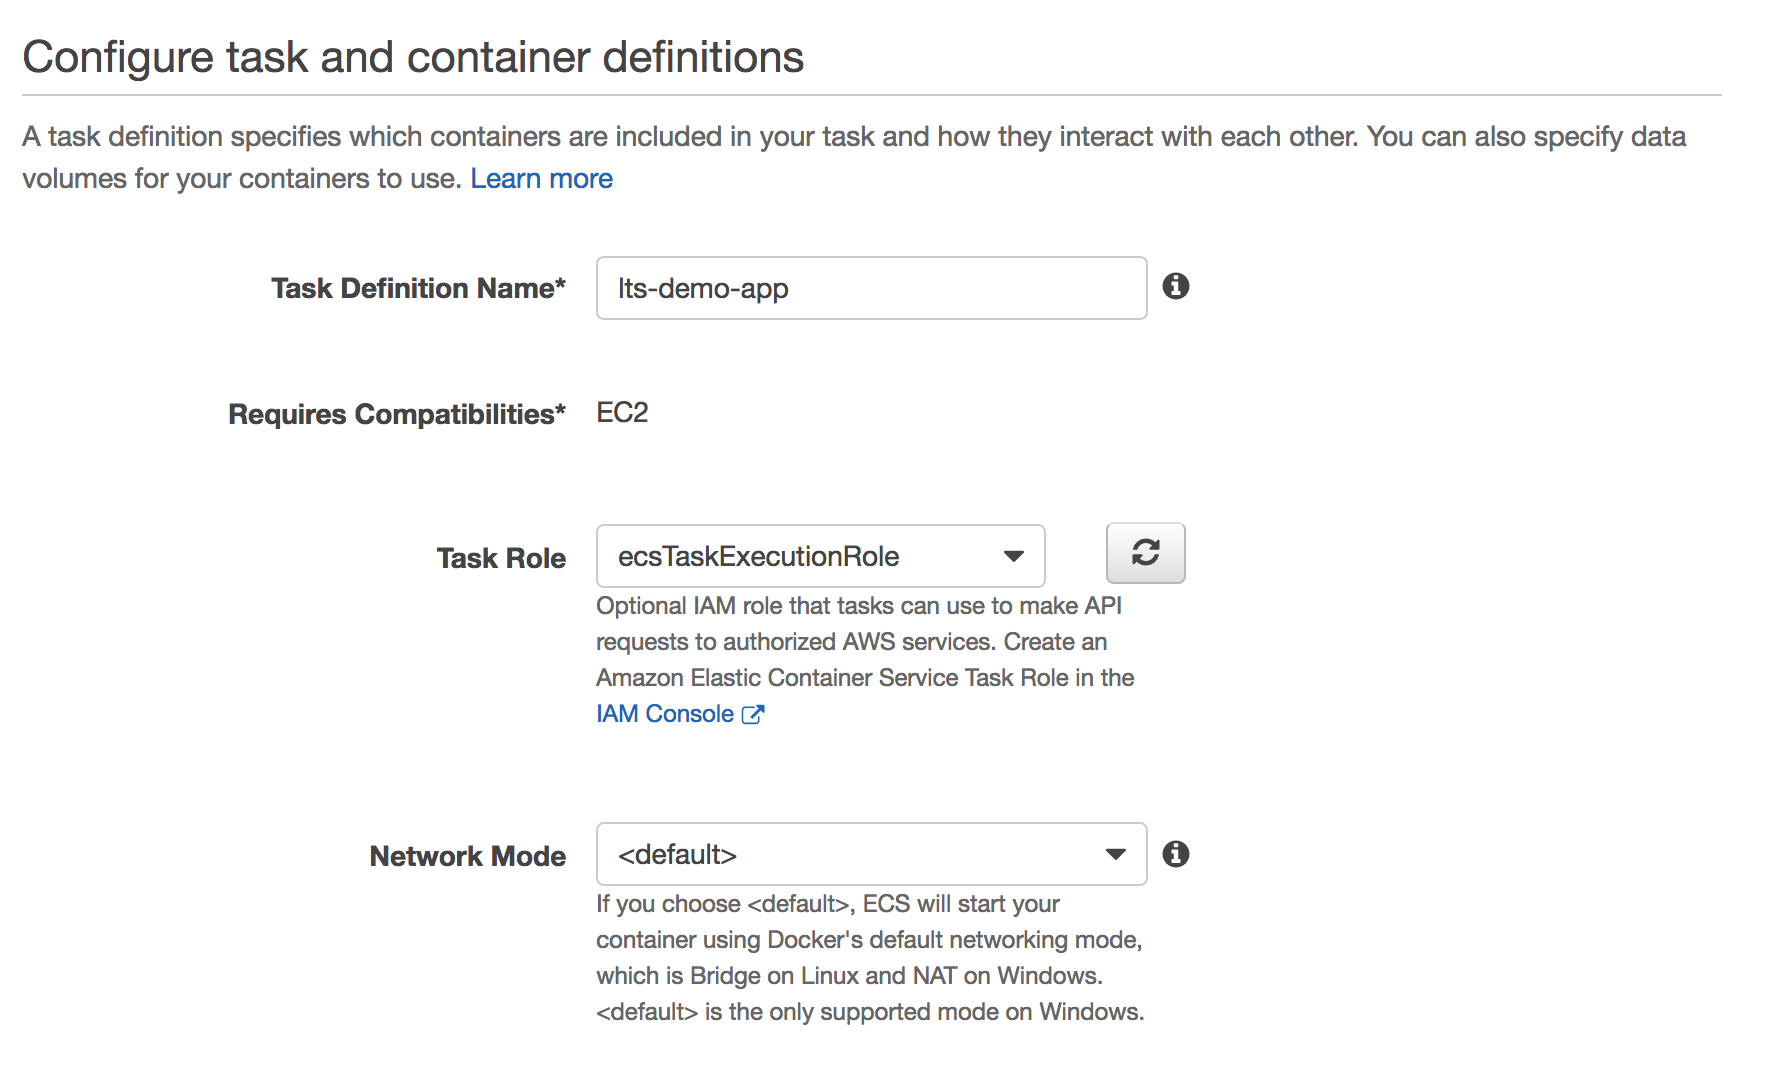
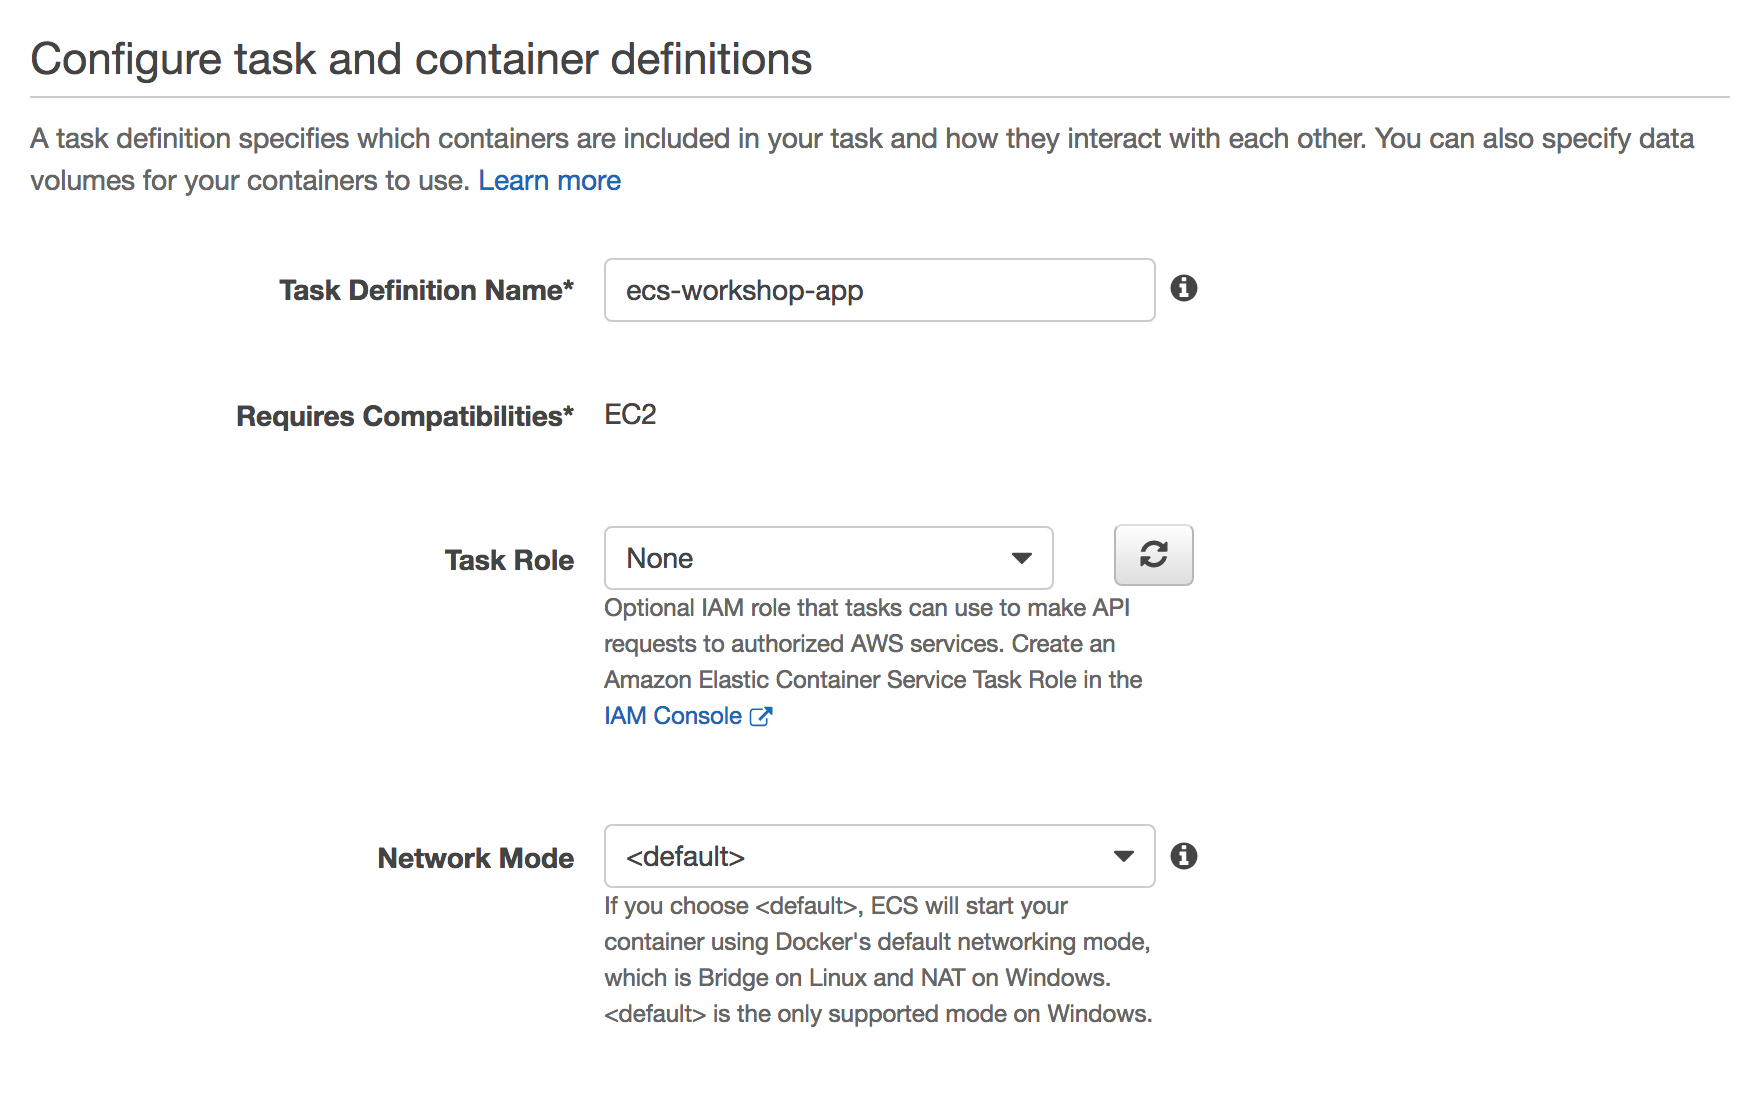
Adding content

diff --git a/04-DeployEcsCluster/README.md b/04-DeployEcsCluster/README.md
@@ -100,27 +100,65 @@ Click in **Next: Register Targets** and them in **Review**. If your values look 
 ![alb creation](https://github.com/bemer/containers-on-aws-workshop/blob/master/04-DeployEcsCluster/images/alb_creation.png)
 
 
+After creating your ALB, you need to update the security group rule so your ALB can access the EC2 instances where your containers will run. In order to identify what is the security group applied to your instances, you can access the ECS console, click in your cluster and them select the tab **ECS Instances**. You will see that you have one instance running. Them, click in the ECS Instance ID:
 
-# CONTINUAR DAQUI
+![ecs instance](https://github.com/bemer/containers-on-aws-workshop/blob/master/04-DeployEcsCluster/images/ecs_instance.png)
+
+>NOTE: in this screen, you will find two different ID's. One of them is related to the `Container Instance`, which will show you all the tasks running in this specific instance as well as some data from the EC2 Instance. The other ID is the `EC2 Instance` ID, that will redirect you to the EC2 console, where you can manage the EC2 instance.
+
+In the EC2 service dashboard, you will see all the information about your instance. In this screen, click in the security group name. This name is going to be similar to **EC2ContainerService-workshop-ecs-cluster-EcsSecurityGroup-1LAM6XQ29XWLU**:
+
+![ec2 security group](https://github.com/bemer/containers-on-aws-workshop/blob/master/04-DeployEcsCluster/images/ec2_security_group.png)
+
+You will be redirected to the security groups console. Take note of the `Group ID` of this security group:
+
+![security group ip](https://github.com/bemer/containers-on-aws-workshop/blob/master/04-DeployEcsCluster/images/sg_id.png)
+
+Now, let's find the security group created to our Application Load Balancer. In order to find it, type `workshop-alb-sg` in the search field. It will show the security group used by our ALB. Again, copy the the `Group ID` of the security group used by the ALB.
+
+At this moment, you should have two Group ID's: the instance Security Group ID and the ALB Security Group ID. The next step is to create a rule in the Security Group used by the EC2 instance allowing all the traffic from the ALB security group. In order to proceed, let's get back to the instance Security Group. You can do this by searching for the ID that you have. In the instance Security Group, let's now create a new rule.
+
+Select the instance Security Group and click in **Inbound** and them in **Edit**. Here, we will have a rule previously create allowing traffic in the port 80 from anywhere. Let's change this rule, in order to allow all traffic coming from the ALB security group to our EC2 instance. Start changing the `Type` to `All Traffic` and add the ALB Security Group ID in the field `Source`. Finally, let's add a description about this rule, so we will be able to understand what is this rule later. To change the rule, click in **Save**:
+
+![security group configuration](https://github.com/bemer/containers-on-aws-workshop/blob/master/04-DeployEcsCluster/images/sg_configuration.png)
+
+The final rules in your instance Security Group should look like this:
+
+![final sg configuration](https://github.com/bemer/containers-on-aws-workshop/blob/master/04-DeployEcsCluster/images/final_sg_configuration.png)
 
 
-After creating your ALB, you need to update the security group rule so your ALB can access the EC2 instances where your containers will run. If you ran the ECS wizard to provision your cluster, you should have an existing group called something like **EC2ContainerService-lts-workshop-EcsSecurityGroup** listed under **VPC** > **Security Groups** - note that you can select your VPC in the top left corner of the VPC screen. Select your security group from the list, click in **Inbound** > **Edit** and add a rule to allow your ALB to access the port range for ECS (0-65535).  The final rules should look like this (note the ALB security group ID):
+At this point, your EC2 instances will be able to receive traffic from the ALB.
 
-![ec2 sg configuration](https://github.com/bemer/containers-on-aws-workshop/blob/master/04-DeployEcsCluster/images/ec2_sg_configuration.png)
+>NOTE: When creating this rule we are allowing all the traffic from the ALB to the instances. We are doing that because when working with ECS we can use a dynamic port mapping feature in order to run more containers with the same image in the same EC2 instance, so when starting our task, we will not specify any port to run our application and the ECS will do it for us. Since we don't know what is the port that the Docker daemon will expose, we need to allow all traffic to have our application accessible by the ALB.
 
 
 
 ## 4. Creating the Task Definition
 
-Before you can register a container to a service, it needs be a part of a Task Definition. Task Definitions define things like environment variables, the container image you wish to use, and the resources you want to allocate to the service (port, memory, CPU).  To create a Task Definition, choose **Task Definitions** from the ECS console menu.  Then, choose **Create new Task Definition**. Select EC2 as the *Launch type compatibility*:
+When working with ECS to run our applications, there are a few concepts that we need to understand. The first of these concepts is about what is a `Task`. Basically, a task is a subset of containers that we need to execute to have our application running. The `Tasks` are defined in a configuration called `Task Definition`.
+
+A `Task Definition` is where you will specify your task. Things like the Docker Image version, the amount of CPU and memory that each container will need, what ports needs to be mapped, data volumes, environment variables and other informations are going to be specified in the Task Definition.
+
+The first thing that we will need, is the information about the image that we want to use. In this case, we are going to use the image created in the [Creating Your Docker Image](https://github.com/bemer/containers-on-aws-workshop/tree/master/02-CreatingDockerImage) tutorial. To get the image URI, navigate to the [ECR page](https://console.aws.amazon.com/ecs/home?region=us-east-1#/repositories). You will see the repository named `workshop-app`. In this screen, you will also see that there is a `Repository URI`. Take note of this URI:
+
+![image uri](https://github.com/bemer/containers-on-aws-workshop/blob/master/04-DeployEcsCluster/images/image_uri.png)
+
+
+To create a Task Definition, in the [Task Definitions](https://console.aws.amazon.com/ecs/home?region=us-east-1#/taskDefinitions) screen on the ECS console menu, click in **Create new Task Definition**. Select EC2 as the *Launch type compatibility* and click in **Next step**:
 
 ![type compatibility](https://github.com/bemer/containers-on-aws-workshop/blob/master/04-DeployEcsCluster/images/task_compatibility.png)
 
-And them click in **Next Step**. Name your task **lts-demo-app**:
+Let's add now the information about this task definition. Name your task **ecs-workshop-app**:
 
 ![create task def](https://github.com/bemer/containers-on-aws-workshop/blob/master/04-DeployEcsCluster/images/create_task_def.png)
 
-Continue to adding a container definition. Click in **Add container**. Now we will add the informations about the image that we created in the previous tutorial. The name of our container will be `lts-demo-app`. In the *Image* field, we need to add the URI from our repository. You can get this URI in the *Repositories* screen, by selecting the repository *lts-demo-app* created before.
+
+In the `Task execution IAM role` select `Create new role`:
+
+![create task iam](https://github.com/bemer/containers-on-aws-workshop/blob/master/04-DeployEcsCluster/images/create_task_iam.png)
+
+
+The next step is to add the information about our container. Click in the **Add container** button, under `Container Definitions`. The name of the container will be `ecs-workshop-app`. In the *Image* field, add the URI that you got before, pointing to your image.
 
 Add `128` in the *Memory Limits* field and in *Port mapping* add `0` in the *Host port* field and `3000` in the *Container port*.
 
@@ -137,7 +175,7 @@ Once you've specified your Port Mappings, scroll down and add a log driver.  The
 
 ![aws log driver](https://github.com/bemer/containers-on-aws-workshop/blob/master/04-DeployEcsCluster/images/setup_logdriver.png)
 
-Once you've added your log driver, add the Container Definition, and create the Task Definition.
+Once you've added your log driver, click in **Add** to add the container in your task definition, and finally click in **Create** in the `Task Definition` screen.
 
 
 ## 5. Creating the Service
